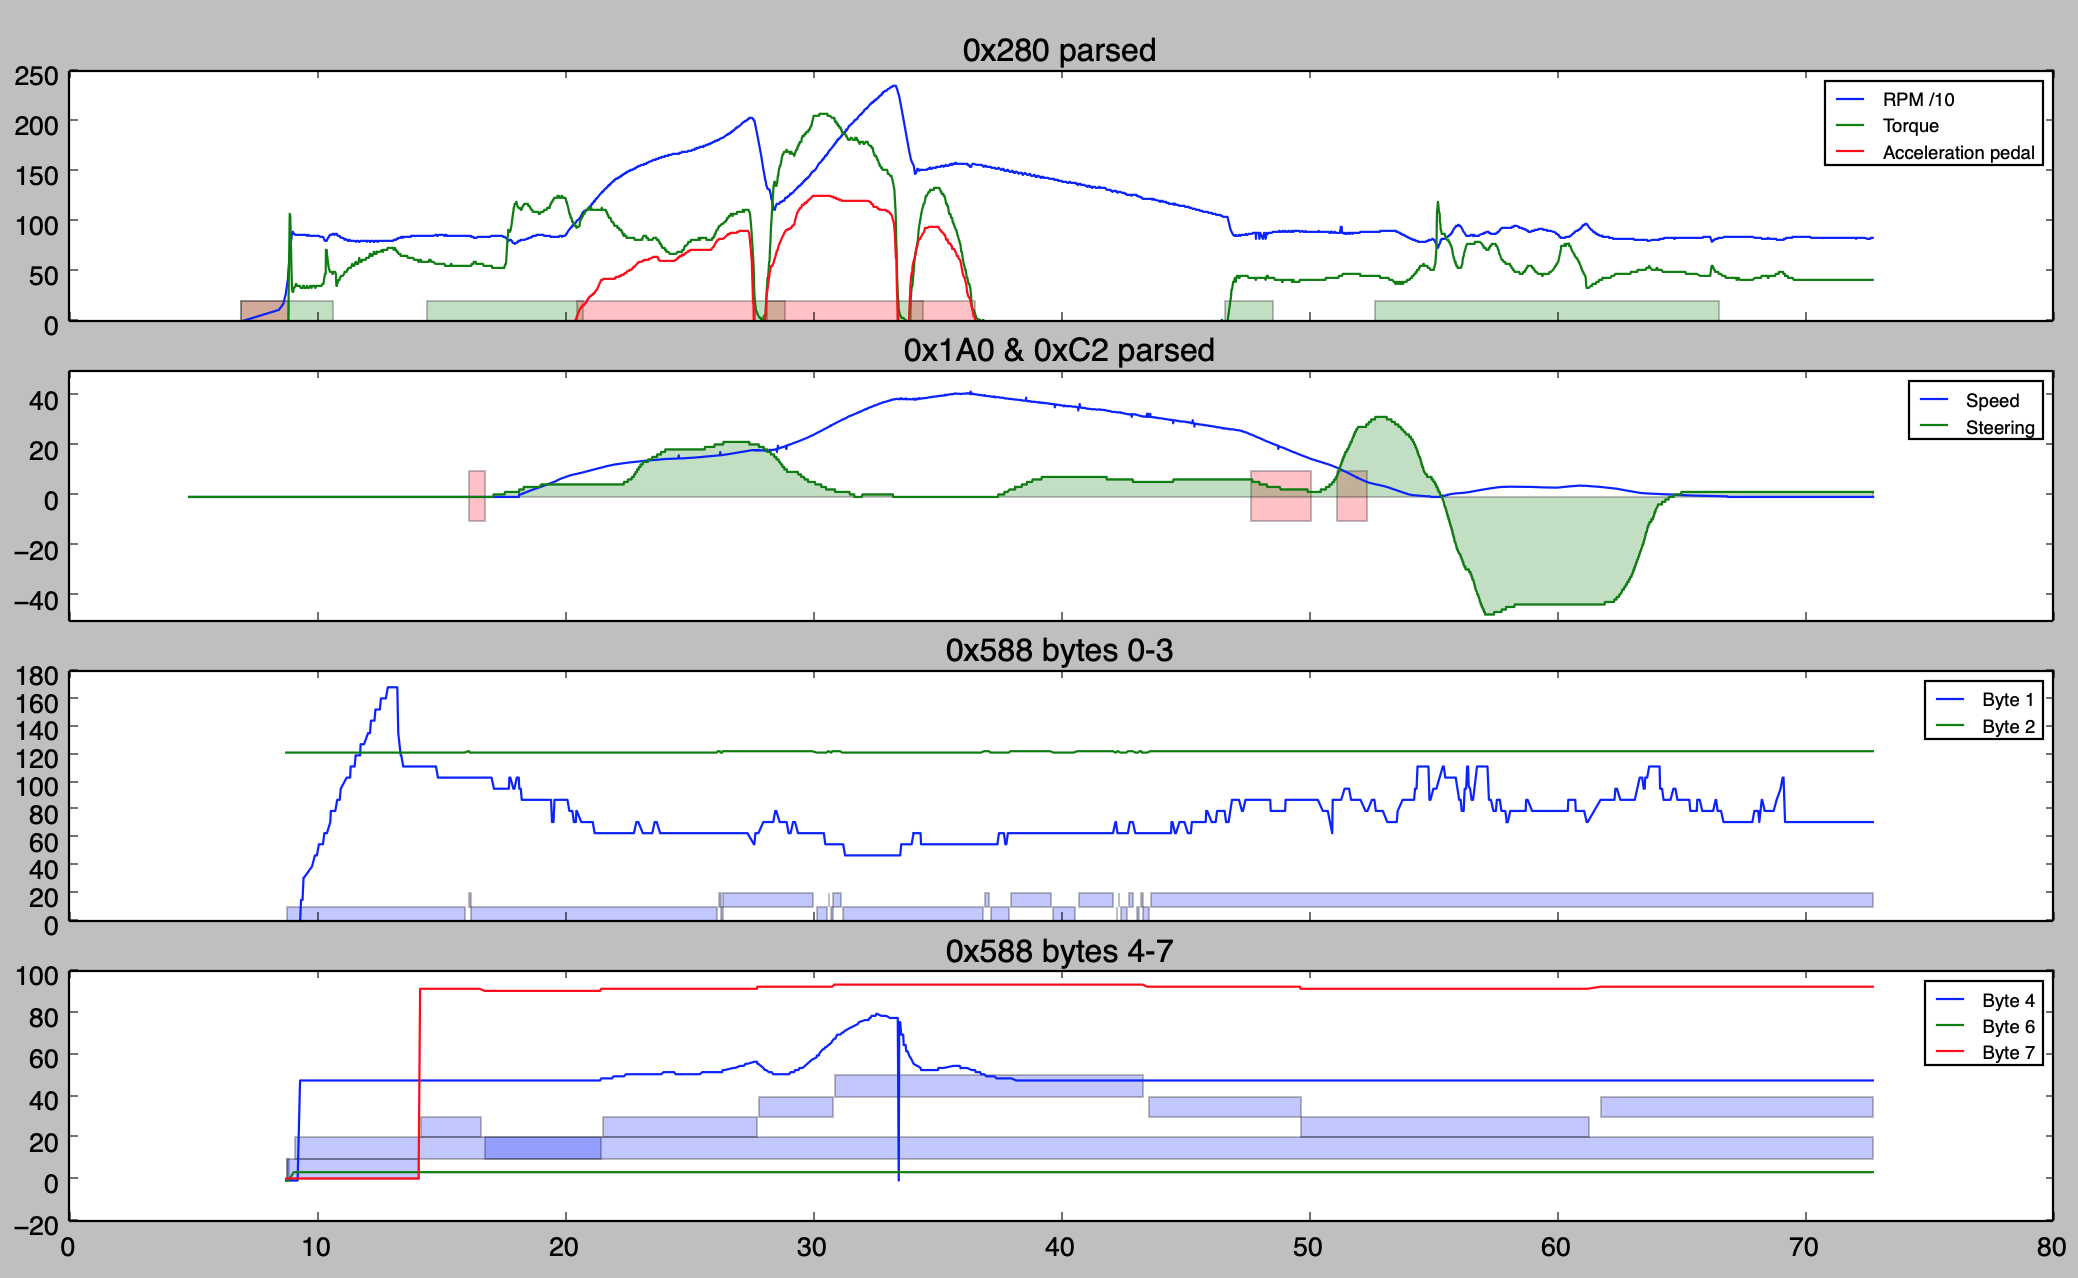
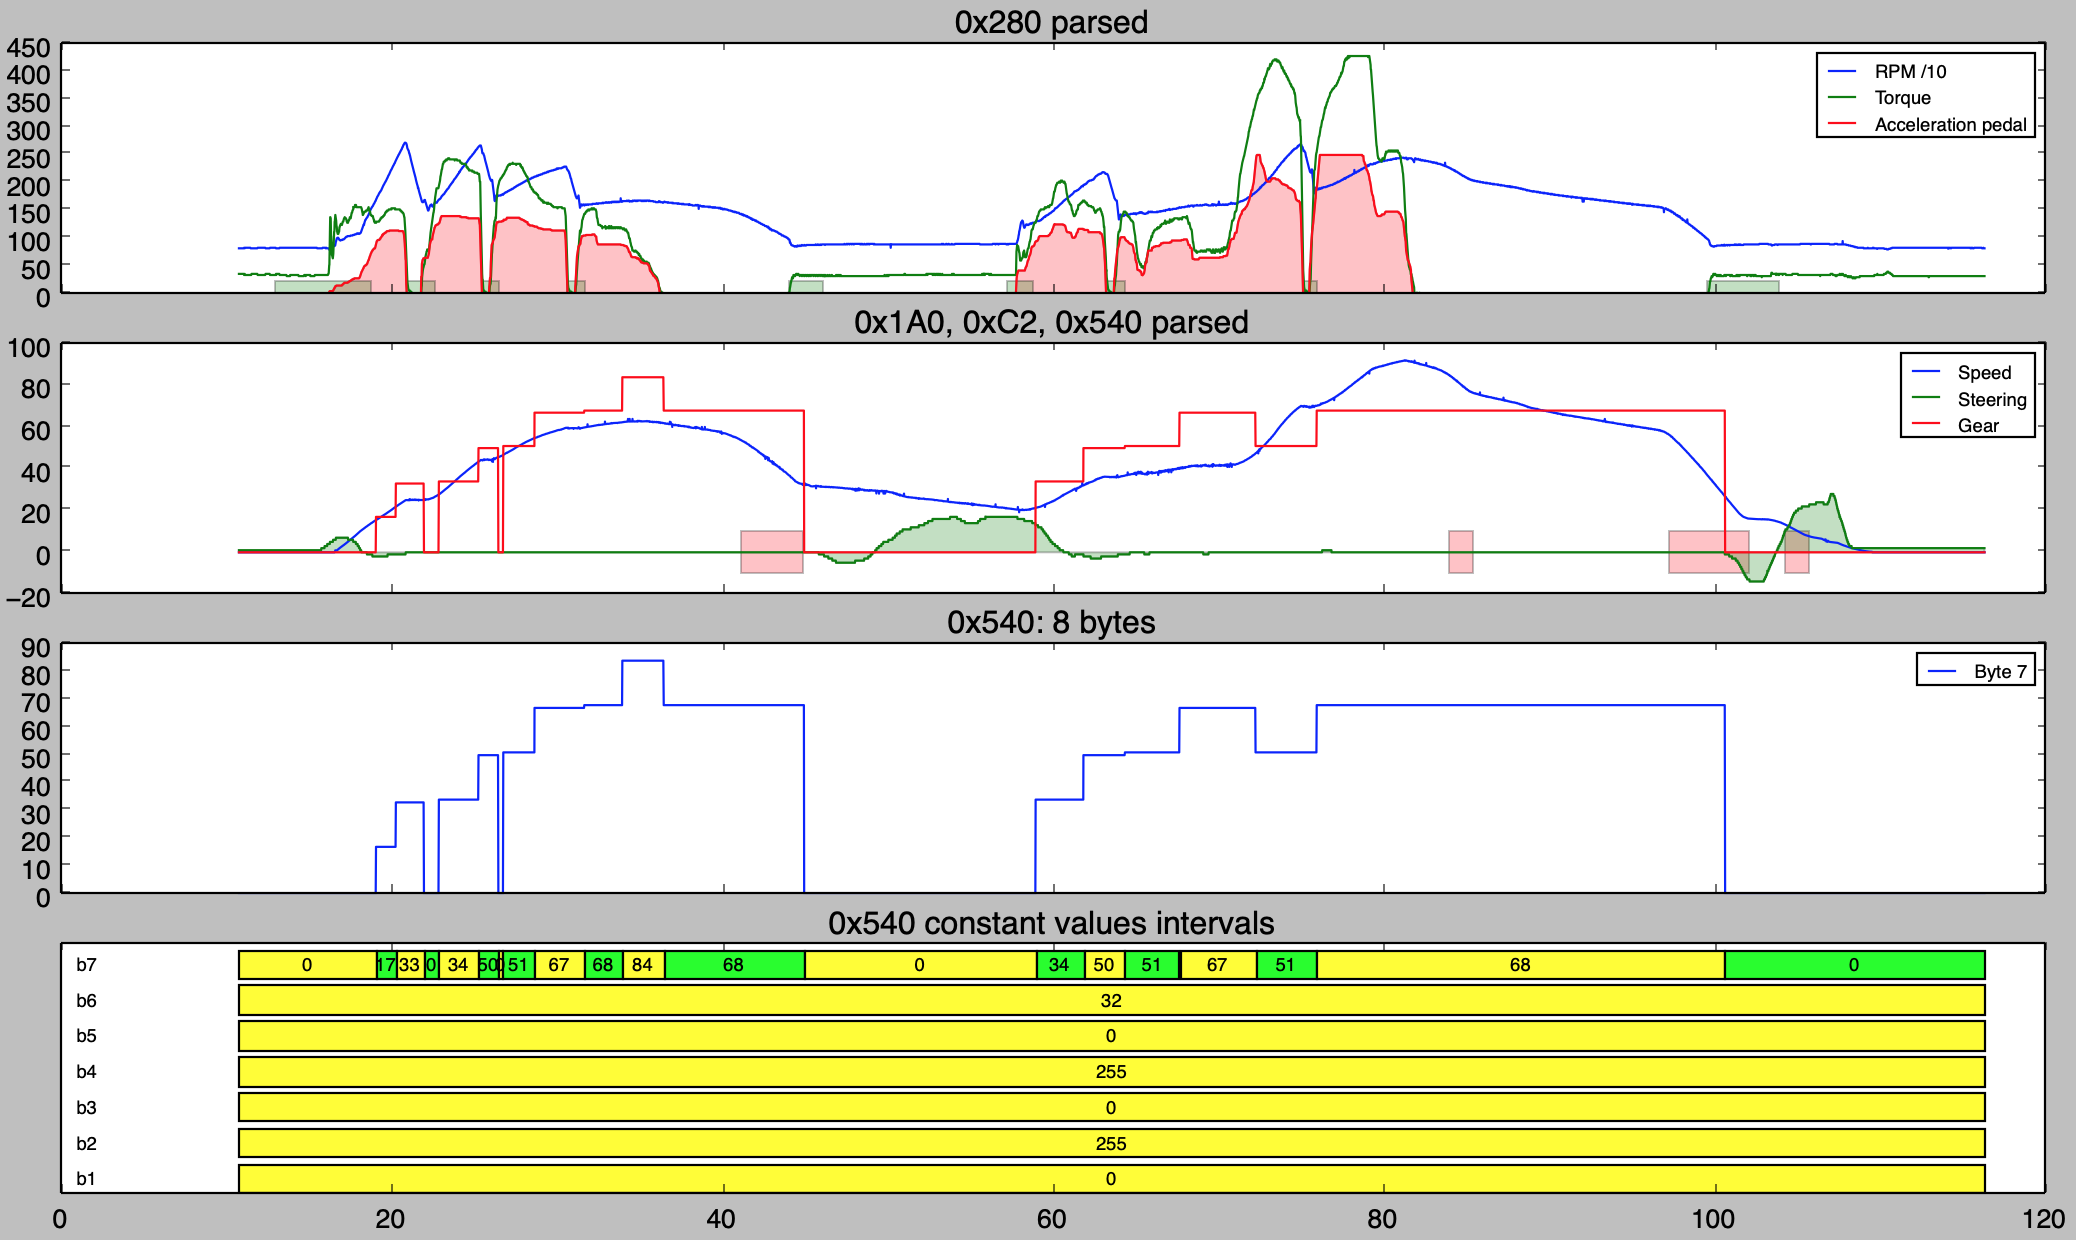
Visualize time intervals of constant byte values

diff --git a/parse_can_logs.py b/parse_can_logs.py
@@ -1,117 +1,139 @@
 import matplotlib.pyplot as plt
 import matplotlib.collections as plt_collections
 import csv
-from collections import defaultdict
 
 csvFilaPath = 'log.csv'
-frameId = '0x588'  # CAN ID to analyze
+frameId = '0x540'  # CAN ID to analyze
 
-class Frame:
-    id = ''
-    time = 0
-    data = []
 
-frames = defaultdict(list)
+class FrameStream:
+    def __init__(self):
+        self.timeStream = []
+        self.bytesStream = []  # array of [8]
+        self.constTimestamps = []  # array of [8](start, end) tuples
+
+
+frames = dict()
 
 with open(csvFilaPath, 'r') as file:
     rows = csv.reader(file, delimiter=',')
     for row in rows:
-        frame = Frame()
         if len(row) < 3:
             print 'incorrect row:', row
             continue
-        frame.id = row[0]
-        frame.time = int(row[1])
-        frame.data = map(lambda x: int(x), row[2:] + ['0']*(10-len(row)))  # for frames with less than 8 bytes data fill missing ones with 0
-        frames[frame.id].append(frame)
+        id = row[0]
+        time = int(row[1])
+        bytes = map(lambda x: int(x), row[2:])
+        if not id in frames:
+            frames[id] = FrameStream()
+        frame = frames[id]
+        frame.timeStream.append(time)
+        if len(frame.bytesStream) == 0:
+            frame.bytesStream = [[x] for x in bytes]
+        else:
+            assert len(bytes) == len(frame.bytesStream)
+            for b, byte in enumerate(bytes):
+                frame.bytesStream[b].append(byte)
+        assert len(frame.timeStream) == len(frame.bytesStream[0])
+
+print 'CSV parsed'
 
 # smooth single frame spikes (it happens that time to time we get broken data in CAN frames):
 errorsCount = 0
 for (_, frame) in frames.items():
-    for i, f in enumerate(frame):
-        if 0 < i < len(frame)-1:
-            prevF = frame[i-1]
-            nextF = frame[i+1]
-            for n in range(0, len(f.data)):
-                if prevF.data[n] == nextF.data[n] and prevF.data[n] != f.data[n]:
-                    f.data[n] = prevF.data[n]
-                    errorsCount += 1
+    for byteStream in frame.bytesStream:
+        for i, b5 in enumerate(zip(byteStream[:-4], byteStream[1:-3], byteStream[2:-2], byteStream[3:-1], byteStream[4:])):
+            if b5[2] != b5[0] and b5[0] == b5[1] and b5[0] == b5[3] and b5[0] == b5[4]:
+                byteStream[i+2] = b5[0]
+                errorsCount += 1
+
 print 'errors fixed (bytes):', errorsCount
+
+# calculate constancy intervals (means how much time the byte keeps constant bitmask):
+for (_, frame) in frames.items():
+    for byteStream in frame.bytesStream:
+        frame.constTimestamps.append(list())
+        if len(set(byteStream)) > 10:
+            continue  # skip bytes with real numeric data
+        timeStart = 0
+        for i, b2 in enumerate(zip(byteStream[:-1], byteStream[1:])):
+            if (b2[0] != b2[1]) or (i == len(byteStream) - 2):
+                if timeStart < (i - 10):
+                    frame.constTimestamps[-1].append([timeStart, i])
+                timeStart = i+1
+
+for key, frame in frames.iteritems():
+    print key, "constant intervals: [", ', '.join([str(len(x)) for x in frame.constTimestamps]), "]"
 
 # make 4 subplots with shared X axis:
 fig, axs = plt.subplots(4, 1, sharex='all')
 
 # display graphs of parsed and calculated RPM, Torque, etc. :
 axs[0].set_title('0x280 parsed')
-x = map(lambda f: f.time * 0.001, frames['0x280'])
-y = map(lambda f: (f.data[3]*256 + f.data[2]) / 4 / 10, frames['0x280'])
+x = map(lambda time: time * 0.001, frames['0x280'].timeStream)
+y = map(lambda (b1, b2): (b1*256 + b2) / 4 / 10, zip(frames['0x280'].bytesStream[3], frames['0x280'].bytesStream[2]))
 axs[0].plot(x, y, label='RPM /10')
-y = map(lambda f: f.data[1] * 2, frames['0x280'])
+y = map(lambda b: b * 2, frames['0x280'].bytesStream[1])
 axs[0].plot(x, y, label='Torque')
-y = map(lambda f: f.data[5], frames['0x280'])
+y = map(lambda b: b, frames['0x280'].bytesStream[5])
 axs[0].plot(x, y, label='Acceleration pedal')
-# byte #0 contains bitmask of clutch and acceleration pedals, display area when the pedals are pressed:
-y = map(lambda f: f.data[0], frames['0x280'])
+axs[0].fill_between(x, 0, y, label='Acceleration pedal', facecolor='red', alpha=0.25)
+# byte #0 contains bitmask of clutch and acceleration pedals, display area when the clutch is pressed:
+y = map(lambda b: b, frames['0x280'].bytesStream[0])
 collection = plt_collections.BrokenBarHCollection.span_where(x, ymin=0, ymax=20, where=[dy <= 1 for dy in y], facecolor='green', alpha=0.25)
-axs[0].add_collection(collection)
-collection = plt_collections.BrokenBarHCollection.span_where(x, ymin=0, ymax=20, where=[not (dy & 1) for dy in y], facecolor='red', alpha=0.25)
 axs[0].add_collection(collection)
 
 # dispaly speed and steering angle:
-axs[1].set_title('0x1A0 & 0xC2 parsed')
-x = map(lambda f: f.time * 0.001, frames['0x1A0'])
-y = map(lambda f: (f.data[3]*256 + f.data[2]) * 0.005, frames['0x1A0'])
+axs[1].set_title('0x1A0, 0xC2, 0x540 parsed')
+x = map(lambda time: time * 0.001, frames['0x1A0'].timeStream)
+y = map(lambda (b1, b2): (b1*256 + b2) * 0.005, zip(frames['0x1A0'].bytesStream[3], frames['0x1A0'].bytesStream[2]))
 axs[1].plot(x, y, label='Speed')
-y = map(lambda f: f.data[1], frames['0x1A0'])
-# byte #1 contains butmask for brake pedal, display area when brake is pressed:
+y = map(lambda b: b, frames['0x1A0'].bytesStream[1])
+# byte #1 contains bitmask for brake pedal, display area when brake is pressed:
 collection = plt_collections.BrokenBarHCollection.span_where(x, ymin=-10, ymax=10, where=[dy == 72 for dy in y], facecolor='red', alpha=0.25)
 axs[1].add_collection(collection)
-x = map(lambda f: f.time * 0.001, frames['0xC2'])
-y = map(lambda f: ((128 - f.data[1] if f.data[1] & 128 else f.data[1]) * 256 + f.data[0]) / 256, frames['0xC2'])
+x = map(lambda time: time * 0.001, frames['0xC2'].timeStream)
+y = map(lambda (b1, b2): ((128 - b1 if b1 & 128 else b1) * 256 + b2) / 256, zip(frames['0xC2'].bytesStream[1], frames['0xC2'].bytesStream[0]))
 axs[1].plot(x, y, label='Steering')
 axs[1].fill_between(x, 0, y, label='Steering', facecolor='green', alpha=0.25)
-
-# x = map(lambda f: f.time * 0.001, frames['4A8'])
-# y = map(lambda f: f.data[2], frames['4A8'])
-# axs[1].plot(x, y, label='Brake press')
-
-# x = map(lambda f: f.time * 0.001, frames['4A0'])
-# y = map(lambda f: (f.data[1]*256 + f.data[0]) / 200, frames['4A0'])
-# axs[2].plot(x, y, label='ABS 1')
-# y = map(lambda f: (f.data[3]*256 + f.data[2]) / 200, frames['4A0'])
-# axs[2].plot(x, y, label='ABS 2')
-# y = map(lambda f: (f.data[5]*256 + f.data[4]) / 200, frames['4A0'])
-# axs[2].plot(x, y, label='ABS 3')
-# y = map(lambda f: (f.data[7]*256 + f.data[6]) / 200, frames['4A0'])
-# axs[2].plot(x, y, label='ABS 4')
+x = map(lambda time: time * 0.001, frames['0x540'].timeStream)
+y = map(lambda b: b, frames['0x540'].bytesStream[7])
+axs[1].plot(x, y, label='Gear')
 
 # display raw values of 8 bytes of specified CAN ID, skip constant and noise bytes:
-axs[2].set_title(frameId + ' bytes 0-3')
-axs[3].set_title(frameId + ' bytes 4-7')
-x = map(lambda f: f.time * 0.001, frames[frameId])
-for i in range(0, len(frames[frameId][0].data)):
-    y = map(lambda f: f.data[i], frames[frameId])
+bytesCount = len(frames[frameId].bytesStream)
+axs[2].set_title(frameId + ': ' + str(bytesCount) + ' bytes')
+x = map(lambda time: time * 0.001, frames[frameId].timeStream)
+for i in range(0, bytesCount):
+    y = frames[frameId].bytesStream[i]
     dy = map(lambda (v1, v2): v2-v1, zip(y, y[1:]))
     avr = sum(map(lambda x: abs(x), dy))
     if avr == 0:
+        print frameId, 'skip constant byte', i
         continue  # skip constant byte
     avr /= len(dy)
     if avr > 5:
+        print frameId, 'skip noise byte', i
         continue  # skip noise
-    axs[2 if i < 4 else 3].plot(x, y, label='Byte ' + str(i))
-    # dy.append(0)
-    # axs[2 if i < 4 else 3].plot(x, dy, label='d' + str(i))
+    axs[2].plot(x, y, label='Byte ' + str(i))
 
-    # recognize bitmask bytes by counting variants:
-    variants = set(y)
-    if len(variants) <= 5:
-        for n, v in enumerate(variants):
-            # display area for each variant:
-            collection = plt_collections.BrokenBarHCollection.span_where(x, ymin=n*10, ymax=(n+1)*10, where=[dy == v for dy in y], alpha=0.25)
-            axs[2 if i < 4 else 3].add_collection(collection)
+axs[3].set_title(frameId + ' constant values intervals')
+axs[3].yaxis.set_visible(False)
+frame = frames[frameId]
+for b, byteTimestamps in enumerate(frame.constTimestamps):
+    if len(byteTimestamps) == 0:
+        continue
+    axs[3].text(1, b + 0.5, 'b' + str(b), va='center', color='black', fontsize='x-small')
+    prevTimeStart = frame.timeStream[byteTimestamps[0][0]] * 0.001
+    for i, timestamp in enumerate(byteTimestamps):
+        timeStart = frame.timeStream[timestamp[0]] * 0.001
+        timeEnd = frame.timeStream[timestamp[1]] * 0.001
+        axs[3].barh(y=b, bottom=b+1, width=timeEnd - timeStart, left=prevTimeStart, color=('yellow' if i % 2 == 0 else 'lime'))
+        prevTimeStart = timeEnd
+        byteValue = frame.bytesStream[b][timestamp[0]]
+        axs[3].text((timeStart + timeEnd) / 2, b + 0.5, str(byteValue), ha='center', va='center', color='black', fontsize='x-small')
 
 axs[0].legend(fontsize='x-small')
 axs[1].legend(fontsize='x-small')
 axs[2].legend(fontsize='x-small')
-axs[3].legend(fontsize='x-small')
 plt.show()
